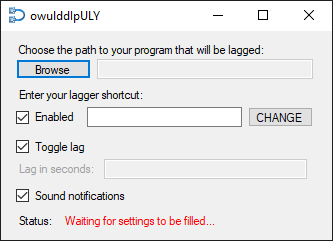
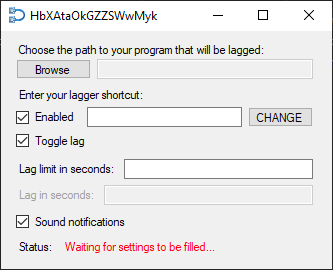
Better solution for float.Parse error

diff --git a/fLagSwitch.cs b/fLagSwitch.cs
@@ -1,6 +1,7 @@
 using System;
 using System.Diagnostics;
 using System.Drawing;
+using System.Globalization;
 using System.Runtime.InteropServices;
 using System.Security.Principal;
 using System.Threading.Tasks;
@@ -156,6 +157,7 @@ namespace fLagSwitch
         {
             if (!IsAdministrator())
             {
+                // TODO: this looks stupid
                 statusLabel.ForeColor = Color.Red;
                 statusLabel.Text = "You have to run this as Administrator.";
                 button1.Enabled = false;
@@ -167,6 +169,7 @@ namespace fLagSwitch
                 ready = false;
                 toggleLag.Enabled = false;
                 button_change.Enabled = false;
+                lagLimitLayoutBox.Enabled = false;
                 return;
             }
 
@@ -265,7 +268,7 @@ namespace fLagSwitch
 
                             if (!toggleLag.Checked)
                             {
-                                float lagSeconds = float.Parse(lagInSecondsTextbox.Text);
+                                float lagSeconds = float.Parse(lagInSecondsTextbox.Text, new CultureInfo("en-US").NumberFormat);
                                 await Task.Delay((int)(lagSeconds * 1000) + random.Next(-500, 500));
                                 endLag();
                             }
@@ -286,7 +289,7 @@ namespace fLagSwitch
                     {
                         if (lagLimitEntry.Text.Length > 0)
                         {
-                            float lagSecondsLimit = float.Parse(lagLimitEntry.Text);
+                            float lagSecondsLimit = float.Parse(lagLimitEntry.Text, new CultureInfo("en-US").NumberFormat);
 
                             if (DateTime.Now.Subtract(lagStartTime).TotalMilliseconds > lagSecondsLimit * 1000)
                             {
@@ -312,13 +315,13 @@ namespace fLagSwitch
 
         private void lagInSecondsTextbox_KeyPress(object sender, KeyPressEventArgs e)
         {
-            if (!char.IsControl(e.KeyChar) && !char.IsDigit(e.KeyChar) && (e.KeyChar != ','))
+            if (!char.IsControl(e.KeyChar) && !char.IsDigit(e.KeyChar) && (e.KeyChar != '.'))
             {
                 e.Handled = true;
             }
 
             // only allow one decimal point
-            if ((e.KeyChar == '.') && ((sender as TextBox).Text.IndexOf(',') > -1))
+            if ((e.KeyChar == '.') && ((sender as TextBox).Text.IndexOf('.') > -1))
             {
                 e.Handled = true;
             }

diff --git a/fLagSwitch.Designer.cs b/fLagSwitch.Designer.cs
@@ -286,11 +286,10 @@ namespace fLagSwitch
             this.flowLayoutPanel3.AutoSizeMode = System.Windows.Forms.AutoSizeMode.GrowAndShrink;
             this.flowLayoutPanel3.Controls.Add(this.label3);
             this.flowLayoutPanel3.Controls.Add(this.statusLabel);
-            this.flowLayoutPanel3.Dock = System.Windows.Forms.DockStyle.Top;
             this.flowLayoutPanel3.Location = new System.Drawing.Point(0, 197);
             this.flowLayoutPanel3.Margin = new System.Windows.Forms.Padding(0, 6, 0, 0);
             this.flowLayoutPanel3.Name = "flowLayoutPanel3";
-            this.flowLayoutPanel3.Size = new System.Drawing.Size(303, 13);
+            this.flowLayoutPanel3.Size = new System.Drawing.Size(76, 13);
             this.flowLayoutPanel3.TabIndex = 9;
             // 
             // lagLimitLayoutBox
